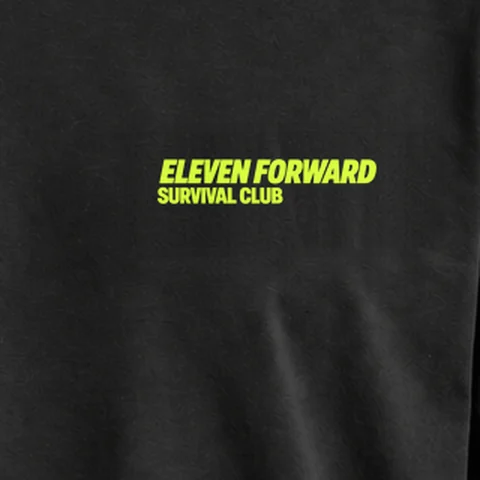
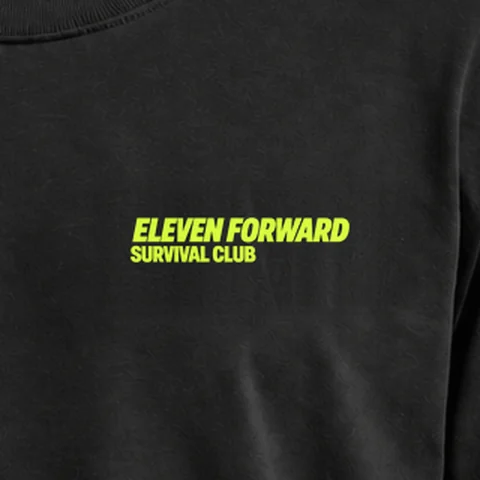
Center black Survival Club artwork in detail crops

diff --git a/dist/survival-club/index.html b/dist/survival-club/index.html
@@ -22,7 +22,7 @@
 
 <button class="menu" type="button" aria-expanded="false" aria-controls="nav-links" aria-label="Open menu"><span class="menu-icon" aria-hidden="true"></span></button><div class="nav-links" id="nav-links"><a href="/products/p001-sport-band/">P001 Sports Band</a><a href="/collections/shop/">Shop</a><a href="/survival-club/">Survival Club</a></div>
 </nav></header>
-<main id="main" tabindex="-1" class="club-page"><div class="shopify-section" id="shopify-section-local-test"><header class="catalog-intro" id="survival-club"><p class="eyebrow"><span class="dot"></span>Wear the belief</p><h1>Survival Club.</h1><p class="catalog-intro-copy">More than apparel. These designs express the culture and mission behind <span class="brand-name">Eleven Forward</span> and our core product, <a href="/#p001">P001</a>.</p></header><section class="catalog-story catalog-tee" id="shirt-black" data-catalog-story="" data-commerce-story="" data-color="black" aria-labelledby="shirt-black-title"><span class="catalog-snap-stop" aria-hidden="true" style="--snap-position:0"></span><span class="catalog-snap-stop" aria-hidden="true" style="--snap-position:0.4"></span><span class="catalog-snap-stop" aria-hidden="true" style="--snap-position:0.665"></span><span class="catalog-snap-stop" aria-hidden="true" style="--snap-position:0.9625"></span><div class="catalog-sticky"><div class="catalog-copy"><p class="eyebrow"><span class="dot"></span>01 / Survival Club</p><div class="catalog-title-row"><h2 id="shirt-black-title">Survival Club Tee</h2><a class="product-details-link" data-product-link="" href="/products/survival-club-tee-black/">Full product details ↗</a></div><p>A bold expression of resilience and belonging.</p></div><div class="catalog-gallery"><figure class="catalog-view" data-catalog-view=""><picture><source type="image/webp" srcset="/assets/shopify/club-black-front-cutout-480.webp?v=97ce8182a046 480w, /assets/shopify/club-black-front-cutout-800.webp?v=6ec73c068a7e 800w, /assets/shopify/club-black-front-cutout-1200.webp?v=38c37d19369e 1200w" sizes="(max-width: 640px) 270vw, (max-width: 900px) 255vw, 186vw"><img src="/assets/shopify/club-black-front-cutout.png?v=9f2a499bba99" width="1254" height="1254" alt="Survival Club Tee, front view. Design concept." fetchpriority="high" decoding="async"></picture><figcaption>Front</figcaption></figure><figure class="catalog-view" data-catalog-view=""><picture><source type="image/webp" srcset="/assets/shopify/club-black-back-cutout-480.webp?v=2ceab650ec12 480w, /assets/shopify/club-black-back-cutout-800.webp?v=319713fd1986 800w, /assets/shopify/club-black-back-cutout-1200.webp?v=80d6e7c05146 1200w" sizes="(max-width: 640px) 90vw, (max-width: 900px) 85vw, 62vw"><img src="/assets/shopify/club-black-back-cutout.png?v=34018579d435" width="1254" height="1254" alt="Survival Club Tee, back view. Design concept." loading="lazy" decoding="async"></picture><figcaption>Back</figcaption></figure><figure class="catalog-view" data-catalog-view=""><picture><source type="image/webp" srcset="/assets/shopify/club-black-detail-cutout-480.webp?v=ee5571a805b6 480w, /assets/shopify/club-black-detail-cutout-560.webp?v=6af87786dc18 560w" sizes="(max-width: 640px) 90vw, (max-width: 900px) 85vw, 62vw"><img src="/assets/shopify/club-black-detail-cutout.png?v=a1826a84a813" width="560" height="560" alt="Survival Club Tee, graphic detail view. Design concept." loading="lazy" decoding="async"></picture><figcaption>Graphic detail</figcaption></figure><div class="catalog-scroll-cue" aria-hidden="true"><span>Scroll</span><span class="catalog-scroll-arrows"><i></i><i></i></span></div></div><ol class="catalog-steps" aria-label="Product view progress"><li data-catalog-step="" aria-label="View 1: Front" aria-current="step"><span class="catalog-step-name">Front</span></li><li data-catalog-step="" aria-label="View 2: Front logo"><span class="catalog-step-name">Front logo</span></li><li data-catalog-step="" aria-label="View 3: Back"><span class="catalog-step-name">Back</span></li><li data-catalog-step="" aria-label="View 4: Graphic detail"><span class="catalog-step-name">Graphic detail</span></li></ol><div class="catalog-bottom">
+<main id="main" tabindex="-1" class="club-page"><div class="shopify-section" id="shopify-section-local-test"><header class="catalog-intro" id="survival-club"><p class="eyebrow"><span class="dot"></span>Wear the belief</p><h1>Survival Club.</h1><p class="catalog-intro-copy">More than apparel. These designs express the culture and mission behind <span class="brand-name">Eleven Forward</span> and our core product, <a href="/#p001">P001</a>.</p></header><section class="catalog-story catalog-tee" id="shirt-black" data-catalog-story="" data-commerce-story="" data-color="black" aria-labelledby="shirt-black-title"><span class="catalog-snap-stop" aria-hidden="true" style="--snap-position:0"></span><span class="catalog-snap-stop" aria-hidden="true" style="--snap-position:0.4"></span><span class="catalog-snap-stop" aria-hidden="true" style="--snap-position:0.665"></span><span class="catalog-snap-stop" aria-hidden="true" style="--snap-position:0.9625"></span><div class="catalog-sticky"><div class="catalog-copy"><p class="eyebrow"><span class="dot"></span>01 / Survival Club</p><div class="catalog-title-row"><h2 id="shirt-black-title">Survival Club Tee</h2><a class="product-details-link" data-product-link="" href="/products/survival-club-tee-black/">Full product details ↗</a></div><p>A bold expression of resilience and belonging.</p></div><div class="catalog-gallery"><figure class="catalog-view" data-catalog-view=""><picture><source type="image/webp" srcset="/assets/shopify/club-black-front-cutout-480.webp?v=97ce8182a046 480w, /assets/shopify/club-black-front-cutout-800.webp?v=6ec73c068a7e 800w, /assets/shopify/club-black-front-cutout-1200.webp?v=38c37d19369e 1200w" sizes="(max-width: 640px) 270vw, (max-width: 900px) 255vw, 186vw"><img src="/assets/shopify/club-black-front-cutout.png?v=9f2a499bba99" width="1254" height="1254" alt="Survival Club Tee, front view. Design concept." fetchpriority="high" decoding="async"></picture><figcaption>Front</figcaption></figure><figure class="catalog-view" data-catalog-view=""><picture><source type="image/webp" srcset="/assets/shopify/club-black-back-cutout-480.webp?v=2ceab650ec12 480w, /assets/shopify/club-black-back-cutout-800.webp?v=319713fd1986 800w, /assets/shopify/club-black-back-cutout-1200.webp?v=80d6e7c05146 1200w" sizes="(max-width: 640px) 90vw, (max-width: 900px) 85vw, 62vw"><img src="/assets/shopify/club-black-back-cutout.png?v=34018579d435" width="1254" height="1254" alt="Survival Club Tee, back view. Design concept." loading="lazy" decoding="async"></picture><figcaption>Back</figcaption></figure><figure class="catalog-view" data-catalog-view=""><picture><source type="image/webp" srcset="/assets/shopify/club-black-detail-cutout-480.webp?v=26764a1fe8d9 480w, /assets/shopify/club-black-detail-cutout-560.webp?v=41e2be2b4f38 560w" sizes="(max-width: 640px) 90vw, (max-width: 900px) 85vw, 62vw"><img src="/assets/shopify/club-black-detail-cutout.png?v=297d8f4025d3" width="560" height="560" alt="Survival Club Tee, graphic detail view. Design concept." loading="lazy" decoding="async"></picture><figcaption>Graphic detail</figcaption></figure><div class="catalog-scroll-cue" aria-hidden="true"><span>Scroll</span><span class="catalog-scroll-arrows"><i></i><i></i></span></div></div><ol class="catalog-steps" aria-label="Product view progress"><li data-catalog-step="" aria-label="View 1: Front" aria-current="step"><span class="catalog-step-name">Front</span></li><li data-catalog-step="" aria-label="View 2: Front logo"><span class="catalog-step-name">Front logo</span></li><li data-catalog-step="" aria-label="View 3: Back"><span class="catalog-step-name">Back</span></li><li data-catalog-step="" aria-label="View 4: Graphic detail"><span class="catalog-step-name">Graphic detail</span></li></ol><div class="catalog-bottom">
 
 
 
@@ -79,7 +79,7 @@
 {"band_sizing":false,"waist_ranges":{"men":{"S/M":"25–35","L/XL":"35–45"},"women":{"XS/S":"24–29","M/L":"29–35","XL/XXL":"35–43"}},"configured":true,"product":{"id":3,"handle":"survival-club-tee-white","title":"Survival Club Tee — White","url":"/products/survival-club-tee-white","price":0,"price_varies":false,"available":true,"variants":[{"id":301,"title":"S","price":0,"available":true,"option1":"S","option2":null,"option3":null,"options":["S"]},{"id":302,"title":"M","price":0,"available":true,"option1":"M","option2":null,"option3":null,"options":["M"]},{"id":303,"title":"L","price":0,"available":true,"option1":"L","option2":null,"option3":null,"options":["L"]}]},"ready":false,"prices":{ "301":"$0.00 USD","302":"$0.00 USD","303":"$0.00 USD" },"prices_short":{ "301":"$0.00","302":"$0.00","303":"$0.00" },"url":"/products/survival-club-tee-white"}
 }</script>
 </ef-product-picker>
-</div></div><template data-color-media="black"><figure class="catalog-view" data-catalog-view=""><picture><source type="image/webp" srcset="/assets/shopify/club-black-front-cutout-480.webp?v=97ce8182a046 480w, /assets/shopify/club-black-front-cutout-800.webp?v=6ec73c068a7e 800w, /assets/shopify/club-black-front-cutout-1200.webp?v=38c37d19369e 1200w" sizes="(max-width: 640px) 270vw, (max-width: 900px) 255vw, 186vw"><img src="/assets/shopify/club-black-front-cutout.png?v=9f2a499bba99" width="1254" height="1254" alt="Survival Club Tee (Black), front view. Design concept." fetchpriority="high" decoding="async"></picture><figcaption>Front</figcaption></figure><figure class="catalog-view" data-catalog-view=""><picture><source type="image/webp" srcset="/assets/shopify/club-black-back-cutout-480.webp?v=2ceab650ec12 480w, /assets/shopify/club-black-back-cutout-800.webp?v=319713fd1986 800w, /assets/shopify/club-black-back-cutout-1200.webp?v=80d6e7c05146 1200w" sizes="(max-width: 640px) 90vw, (max-width: 900px) 85vw, 62vw"><img src="/assets/shopify/club-black-back-cutout.png?v=34018579d435" width="1254" height="1254" alt="Survival Club Tee (Black), back view. Design concept." loading="lazy" decoding="async"></picture><figcaption>Back</figcaption></figure><figure class="catalog-view" data-catalog-view=""><picture><source type="image/webp" srcset="/assets/shopify/club-black-detail-cutout-480.webp?v=ee5571a805b6 480w, /assets/shopify/club-black-detail-cutout-560.webp?v=6af87786dc18 560w" sizes="(max-width: 640px) 90vw, (max-width: 900px) 85vw, 62vw"><img src="/assets/shopify/club-black-detail-cutout.png?v=a1826a84a813" width="560" height="560" alt="Survival Club Tee (Black), graphic detail view. Design concept." loading="lazy" decoding="async"></picture><figcaption>Graphic detail</figcaption></figure></template><template data-color-media="white"><figure class="catalog-view" data-catalog-view=""><picture><source type="image/webp" srcset="/assets/shopify/club-white-front-cutout-480.webp?v=c6d0cdaae53c 480w, /assets/shopify/club-white-front-cutout-800.webp?v=96f24b4f5f01 800w, /assets/shopify/club-white-front-cutout-1200.webp?v=5382778907e5 1200w" sizes="(max-width: 640px) 270vw, (max-width: 900px) 255vw, 186vw"><img src="/assets/shopify/club-white-front-cutout.png?v=072be37ab347" width="1254" height="1254" alt="Survival Club Tee (White), front view. Design concept." loading="lazy" decoding="async"></picture><figcaption>Front</figcaption></figure><figure class="catalog-view" data-catalog-view=""><picture><source type="image/webp" srcset="/assets/shopify/club-white-back-cutout-480.webp?v=ee0df516e969 480w, /assets/shopify/club-white-back-cutout-800.webp?v=e946f37c4813 800w, /assets/shopify/club-white-back-cutout-1200.webp?v=a6758832683a 1200w" sizes="(max-width: 640px) 90vw, (max-width: 900px) 85vw, 62vw"><img src="/assets/shopify/club-white-back-cutout.png?v=948420aba74e" width="1254" height="1254" alt="Survival Club Tee (White), back view. Design concept." loading="lazy" decoding="async"></picture><figcaption>Back</figcaption></figure><figure class="catalog-view" data-catalog-view=""><picture><source type="image/webp" srcset="/assets/shopify/club-white-detail-cutout-480.webp?v=624b14fe2af2 480w, /assets/shopify/club-white-detail-cutout-560.webp?v=ec79ad733628 560w" sizes="(max-width: 640px) 90vw, (max-width: 900px) 85vw, 62vw"><img src="/assets/shopify/club-white-detail-cutout.png?v=a4f3dfd6c809" width="560" height="560" alt="Survival Club Tee (White), graphic detail view. Design concept." loading="lazy" decoding="async"></picture><figcaption>Graphic detail</figcaption></figure></template></section>
+</div></div><template data-color-media="black"><figure class="catalog-view" data-catalog-view=""><picture><source type="image/webp" srcset="/assets/shopify/club-black-front-cutout-480.webp?v=97ce8182a046 480w, /assets/shopify/club-black-front-cutout-800.webp?v=6ec73c068a7e 800w, /assets/shopify/club-black-front-cutout-1200.webp?v=38c37d19369e 1200w" sizes="(max-width: 640px) 270vw, (max-width: 900px) 255vw, 186vw"><img src="/assets/shopify/club-black-front-cutout.png?v=9f2a499bba99" width="1254" height="1254" alt="Survival Club Tee (Black), front view. Design concept." fetchpriority="high" decoding="async"></picture><figcaption>Front</figcaption></figure><figure class="catalog-view" data-catalog-view=""><picture><source type="image/webp" srcset="/assets/shopify/club-black-back-cutout-480.webp?v=2ceab650ec12 480w, /assets/shopify/club-black-back-cutout-800.webp?v=319713fd1986 800w, /assets/shopify/club-black-back-cutout-1200.webp?v=80d6e7c05146 1200w" sizes="(max-width: 640px) 90vw, (max-width: 900px) 85vw, 62vw"><img src="/assets/shopify/club-black-back-cutout.png?v=34018579d435" width="1254" height="1254" alt="Survival Club Tee (Black), back view. Design concept." loading="lazy" decoding="async"></picture><figcaption>Back</figcaption></figure><figure class="catalog-view" data-catalog-view=""><picture><source type="image/webp" srcset="/assets/shopify/club-black-detail-cutout-480.webp?v=26764a1fe8d9 480w, /assets/shopify/club-black-detail-cutout-560.webp?v=41e2be2b4f38 560w" sizes="(max-width: 640px) 90vw, (max-width: 900px) 85vw, 62vw"><img src="/assets/shopify/club-black-detail-cutout.png?v=297d8f4025d3" width="560" height="560" alt="Survival Club Tee (Black), graphic detail view. Design concept." loading="lazy" decoding="async"></picture><figcaption>Graphic detail</figcaption></figure></template><template data-color-media="white"><figure class="catalog-view" data-catalog-view=""><picture><source type="image/webp" srcset="/assets/shopify/club-white-front-cutout-480.webp?v=c6d0cdaae53c 480w, /assets/shopify/club-white-front-cutout-800.webp?v=96f24b4f5f01 800w, /assets/shopify/club-white-front-cutout-1200.webp?v=5382778907e5 1200w" sizes="(max-width: 640px) 270vw, (max-width: 900px) 255vw, 186vw"><img src="/assets/shopify/club-white-front-cutout.png?v=072be37ab347" width="1254" height="1254" alt="Survival Club Tee (White), front view. Design concept." loading="lazy" decoding="async"></picture><figcaption>Front</figcaption></figure><figure class="catalog-view" data-catalog-view=""><picture><source type="image/webp" srcset="/assets/shopify/club-white-back-cutout-480.webp?v=ee0df516e969 480w, /assets/shopify/club-white-back-cutout-800.webp?v=e946f37c4813 800w, /assets/shopify/club-white-back-cutout-1200.webp?v=a6758832683a 1200w" sizes="(max-width: 640px) 90vw, (max-width: 900px) 85vw, 62vw"><img src="/assets/shopify/club-white-back-cutout.png?v=948420aba74e" width="1254" height="1254" alt="Survival Club Tee (White), back view. Design concept." loading="lazy" decoding="async"></picture><figcaption>Back</figcaption></figure><figure class="catalog-view" data-catalog-view=""><picture><source type="image/webp" srcset="/assets/shopify/club-white-detail-cutout-480.webp?v=624b14fe2af2 480w, /assets/shopify/club-white-detail-cutout-560.webp?v=ec79ad733628 560w" sizes="(max-width: 640px) 90vw, (max-width: 900px) 85vw, 62vw"><img src="/assets/shopify/club-white-detail-cutout.png?v=a4f3dfd6c809" width="560" height="560" alt="Survival Club Tee (White), graphic detail view. Design concept." loading="lazy" decoding="async"></picture><figcaption>Graphic detail</figcaption></figure></template></section>
 </div></main>
 <footer class="footer">
 

diff --git a/dist/products/survival-club-tee-black/index.html b/dist/products/survival-club-tee-black/index.html
@@ -34,9 +34,9 @@
 
 <button type="button" data-image-url="/assets/shopify/club-black-front-cutout-800.webp?v=6ec73c068a7e" data-image-alt="Survival Club Tee — Black, front" aria-label="View front" aria-pressed="true"><img src="/assets/shopify/club-black-front-cutout-800.webp?v=6ec73c068a7e" alt="front" width="160" height="160" loading="lazy"></button>
 <button type="button" data-image-url="/assets/shopify/club-black-back-cutout-800.webp?v=319713fd1986" data-image-alt="Survival Club Tee — Black, back" aria-label="View back" aria-pressed="false"><img src="/assets/shopify/club-black-back-cutout-800.webp?v=319713fd1986" alt="back" width="160" height="160" loading="lazy"></button>
-<button type="button" data-image-url="/assets/shopify/club-black-detail-cutout-480.webp?v=ee5571a805b6" data-image-alt="Survival Club Tee — Black, detail" aria-label="View detail" aria-pressed="false"><img src="/assets/shopify/club-black-detail-cutout-480.webp?v=ee5571a805b6" alt="detail" width="160" height="160" loading="lazy"></button><button type="button" data-image-url="/assets/shopify/club-black-front-detail-cutout-800.webp?v=24d1927ad67d" data-image-alt="Black Survival Club tee, chest logo close-up" aria-label="View front detail" aria-pressed="false"><img src="/assets/shopify/club-black-front-detail-cutout-480.webp?v=069400259d76" alt="Chest logo close-up" width="160" height="160" loading="lazy"></button>
+<button type="button" data-image-url="/assets/shopify/club-black-detail-cutout-480.webp?v=26764a1fe8d9" data-image-alt="Survival Club Tee — Black, detail" aria-label="View detail" aria-pressed="false"><img src="/assets/shopify/club-black-detail-cutout-480.webp?v=26764a1fe8d9" alt="detail" width="160" height="160" loading="lazy"></button><button type="button" data-image-url="/assets/shopify/club-black-front-detail-cutout-800.webp?v=95100a4b0b17" data-image-alt="Black Survival Club tee, chest logo close-up" aria-label="View front detail" aria-pressed="false"><img src="/assets/shopify/club-black-front-detail-cutout-480.webp?v=80c7422661b6" alt="Chest logo close-up" width="160" height="160" loading="lazy"></button>
 </div>
-<noscript><img src="/assets/shopify/club-black-back-cutout-480.webp?v=2ceab650ec12" alt="Survival Club Tee — Black, back" width="800" height="800" loading="lazy"><img src="/assets/shopify/club-black-detail-cutout-480.webp?v=ee5571a805b6" alt="Survival Club Tee — Black, detail" width="800" height="800" loading="lazy"><img src="/assets/shopify/club-black-front-detail-cutout-800.webp?v=24d1927ad67d" alt="Black Survival Club tee, chest logo close-up" width="800" height="800" loading="lazy"></noscript>
+<noscript><img src="/assets/shopify/club-black-back-cutout-480.webp?v=2ceab650ec12" alt="Survival Club Tee — Black, back" width="800" height="800" loading="lazy"><img src="/assets/shopify/club-black-detail-cutout-480.webp?v=26764a1fe8d9" alt="Survival Club Tee — Black, detail" width="800" height="800" loading="lazy"><img src="/assets/shopify/club-black-front-detail-cutout-800.webp?v=95100a4b0b17" alt="Black Survival Club tee, chest logo close-up" width="800" height="800" loading="lazy"></noscript>
 
 </div>
 

diff --git a/scripts/prepare_catalog_assets.py b/scripts/prepare_catalog_assets.py
@@ -19,11 +19,15 @@ def export(name,image):
  fallback=image.copy();fallback.thumbnail((1200,1200),Image.Resampling.LANCZOS)
  fallback.save(assets/f'{filebase}.png',optimize=True)
  manifest[name]={'filebase':filebase,'width':image.width,'height':image.height,'widths':widths}
+# Center the square detail crops on the outer bounds of the printed artwork.
+back_detail_boxes={'black':(346,111,906,671),'white':(365,200,925,760)}
+black_chest_detail_box=(618,181,938,501)
 for color in ['black','white']:
  for view in ['front','back']:
   export(f'club-{color}-{view}',Image.open(masters/f'{color}-{view}.png'))
- export(f'club-{color}-detail',Image.open(masters/f'{color}-back.png').crop((365,200,925,760)))
-export('club-black-front-detail',Image.open(masters/'black-front.png').crop((600,220,920,540)))
+ export(f'club-{color}-detail',Image.open(masters/f'{color}-back.png').crop(back_detail_boxes[color]))
+black_chest_detail=Image.open(masters/'black-front.png').crop(black_chest_detail_box)
+export('club-black-front-detail',black_chest_detail)
 cap=Image.open(masters/'cap-pair.png').resize((1300,560),Image.Resampling.LANCZOS)
 export('club-cap-front',cap.crop((0,30,535,535)))
 export('club-cap-side',cap.crop((535,40,1300,535)))
